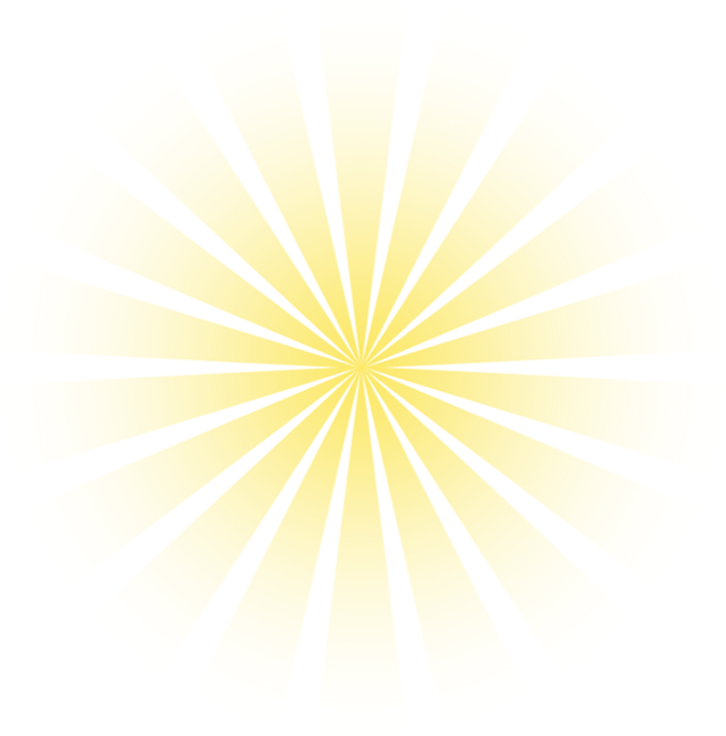
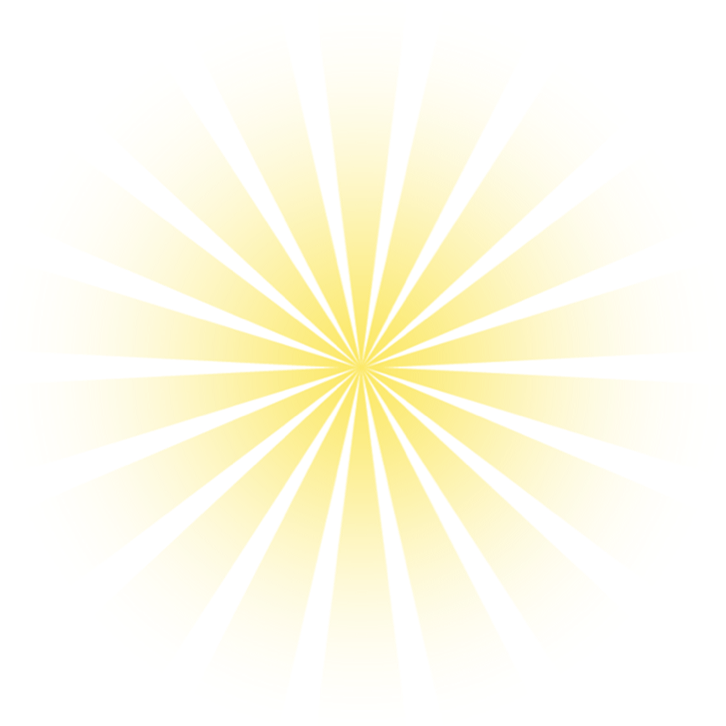
抽奖弹窗，光增加旋转效果

diff --git a/pages/drawLottery/drawLottery.less b/pages/drawLottery/drawLottery.less
@@ -182,8 +182,8 @@
 		vertical-align: -4rpx;
 	}
 }
-
-/* 提示窗口 */
+}
+	
 /*  弹出层 */
 .popup {
 	position: fixed;
@@ -192,7 +192,7 @@
 	right: 0;
 	bottom: 0;
 	z-index: 99;
-	.mask{
+	.mask {
 		position: fixed;
 		top: 0;
 		width: 100%;
@@ -210,13 +210,41 @@
 		height: 736upx;
 		z-index: 2;
 		border-radius: 10upx;
-		.lottery-model-bg {
+		@-webkit-keyframes spin {
+			from {
+				-webkit-transform: rotate(0deg);
+			}
+			to {
+				-webkit-transform: rotate(360deg);
+			}
+		}
+		@keyframes spin {
+			from {
+				transform: rotate(0deg);
+			}
+			to {
+				transform: rotate(360deg);
+			}
+		}
+		.lottery-model-light {
 			position: absolute;
 			left: 0;
 			top: 0;
+			z-index: 100;
+			width: 726rpx;
+			height: 726rpx;
+			animation: spin 4s linear infinite;
+		}
+		.lottery-model-bg {
+			position: absolute;
+			left: 46rpx;
+			top: 160rpx;
 			z-index: 101;
-			width: 726upx;
-			height: 612upx;
+			width: 630rpx;
+			height: 404rpx;
+		}
+		.lottery-model-bg-gray {
+			-webkit-filter: grayscale(1);
 		}
 		.icon-close {
 			position: absolute;
@@ -230,7 +258,7 @@
 		.lottery-content {
 			position: absolute;
 			left: 122rpx;
-			top: 392rpx;
+			top: 350rpx;
 			z-index: 102;
 			width: 480rpx;
 			height: 224rpx;
@@ -250,7 +278,6 @@
 			}
 		}
 	}
-	
 }
-	
+		
 

diff --git a/pages/contribute/contribute.vue b/pages/contribute/contribute.vue
@@ -17,7 +17,11 @@
 			<view class="section contribute-list" v-if="rank.length > 0">
 				<view class="contribute-item" v-for="item in rank" :key="item.id">
 					<view class="item-l">
-						<text class="rank">{{item.totalRank.rankValue }}</text>
+						<image class="rank-img" v-if="item.totalRank.rankValue === 1 " src="../../static/icon-rank-1.png"></image>
+						<image class="rank-img" v-if="item.totalRank.rankValue === 2 " src="../../static/icon-rank-2.png"></image>
+						<image class="rank-img" v-if="item.totalRank.rankValue === 3 " src="../../static/icon-rank-3.png"></image>
+						<text class="rank" v-if="item.totalRank.rankValue > 3 ">{{item.totalRank.rankValue}}</text>
+						
 						<image class="img" :src="item.avatar"></image>
 						<view class="name">{{item.name}}</view>
 					</view>
@@ -122,15 +126,17 @@
 			flex: 2;
 			display: flex;
 			align-items: center;
-
+			.rank-img {
+				width: 38rpx;
+				height: 55rpx;
+			}
 			.rank {
 				display: inline-block;
 				line-height: 56upx;
-				width: 36upx;
+				width: 38upx;
 				height: 56upx;
 				text-align: center;
 			}
-
 			.img {
 				width: 80upx;
 				height: 80upx;

diff --git a/pages/drawLottery/drawLottery.vue b/pages/drawLottery/drawLottery.vue
@@ -52,8 +52,9 @@
 		<view class="popup lottery-pop" v-if="showTotteryPop" @click.stop.prevent = "stopPenetrate">
 			<view class="mask"></view>
 			<view class="uni-lottery-pop">
+				<image v-if="lotteryType=='success'" class="lottery-model-light" src="../../static/light3.png"></image>
 				<image v-if="lotteryType=='success'" src="../../static/lottery-model-bg.png" class="lottery-model-bg"></image>
-				<image v-if="lotteryType=='fail'" src="../../static/lottery-model-bg1.png" class="lottery-model-bg"></image>
+				<image v-if="lotteryType=='fail'" src="../../static/lottery-model-bg1.png" class="lottery-model-bg lottery-model-bg-gray"></image>
 				<image class="icon-close" @click="closeLotteryPop()" src="../../static/close.png"></image>
 				<view class="lottery-content">
 					<view class="title">{{lotteryTip}}</view>

diff --git a/pages/billboard/billboard.vue b/pages/billboard/billboard.vue
@@ -151,8 +151,7 @@
 				uni.navigateTo({
 					url: "../welfare/welfare"
 				});
-			},
-			
+			}
 		},
 		onShow() {
 			this.loadData();

diff --git a/pages/doTask/doTask.less b/pages/doTask/doTask.less
@@ -16,7 +16,7 @@
 .content-bg2 {
 	position: absolute;
 	left: 0;
-	top: 100upx;
+	top: 64upx;
 	width: 100%;
 	height: 686upx;
 }
